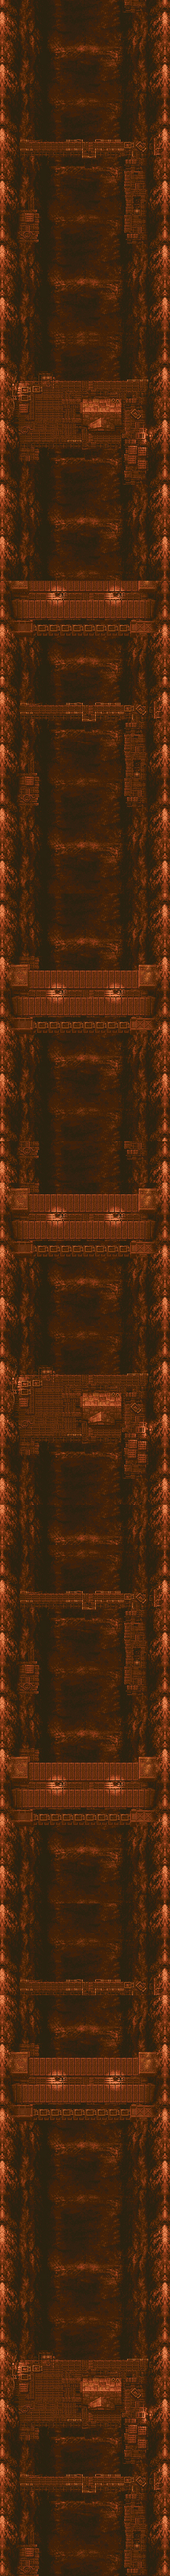
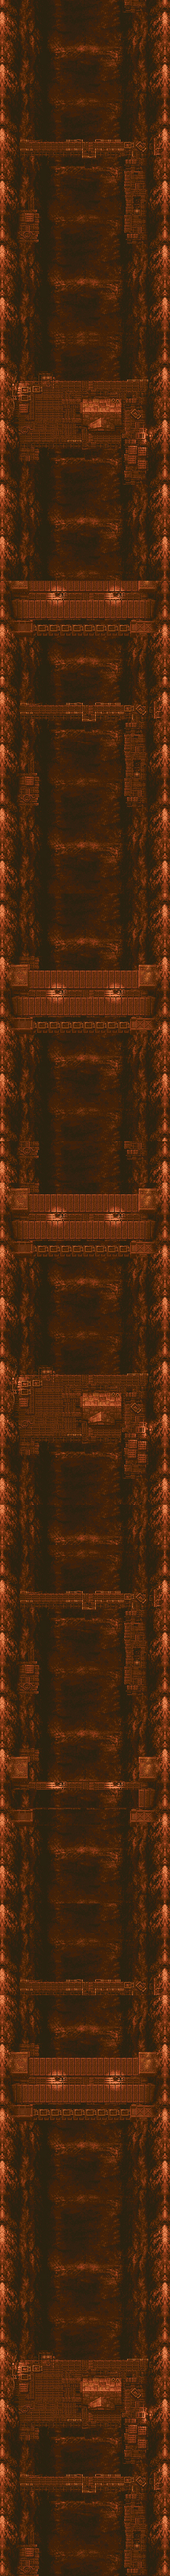
0.4.7.7
Added all background animations

Changed region(s): [[0.0897, 0.6846, 0.8077, 0.7157]]

diff --git a/Gunbird 0.4.7 (PowerUp)/Gunbird/ModuleMine.cpp b/Gunbird 0.4.7 (PowerUp)/Gunbird/ModuleMine.cpp
@@ -31,6 +31,7 @@ bool ModuleMine::Start()
 
 
 	minetexture = App->textures->Load("background_mine.png");
+	mineanimationtexture = App->textures->Load("background_mine_animation.png");
 	startplayer2texture = App->textures->Load("ui.png");
 	minetexture2 = App->textures->Load("background_mine_2.png");
 	mineworkertexture = App->textures->Load("mineworker.png");
@@ -53,6 +54,16 @@ bool ModuleMine::Start()
 	mineworkerwalk.PushBack({ 107, 8, 13, 22 });
 	mineworkerwalk.PushBack({ 83, 8, 11, 23 });
 	mineworkerwalk.speed = 0.08f;
+
+	mineanimation.PushBack({ 13,27,175,85 });
+	mineanimation.PushBack({ 197,27,175,85 });
+	mineanimation.PushBack({ 392,27,175,85 });
+	mineanimation.PushBack({ 585,27,175,85 });
+	mineanimation.PushBack({ 8,131,175,85 });
+	mineanimation.PushBack({ 197,131,175,85 });
+	mineanimation.PushBack({ 392,123,175,85 });
+	mineanimation.PushBack({ 585,131,175,85 });
+	mineanimation.speed = 0.05f;
 
 	mineworkerstand.PushBack({ 2,8,13,22 });
 	mineworkerstand.PushBack({ 21,8,14,23 });
@@ -114,7 +125,9 @@ update_status ModuleMine::Update()
 
 	//Background
 	App->render->Blit(minetexture, 0, -3535 + SCREEN_HEIGHT, &mine, 0.18f);
+	App->render->Blit(mineanimationtexture, 16, -796, &(mineanimation.GetCurrentFrame()), 0.18f);
 	App->render->Blit(minetexture2, 0, -3535 + SCREEN_HEIGHT, &mine, 0.22f);
+	
 
 	//Mineworkers
 	
@@ -122,17 +135,11 @@ update_status ModuleMine::Update()
 	App->render->Blit(mineworkertexture, 16, -439, &(mineworkerstand.GetCurrentFrame()), 0.22f);
 	App->render->Blit(mineworkertexture, 137, -460, &(mineworkerstand.GetCurrentFrame()), 0.22f);
 	
-	if (App->render->camera.y > 36750) {
-		App->render->Blit(mineworkertexture, 137, -460, &(mineworkerwalk.GetCurrentFrame()), 0.22f);
-	}
-
 	//UI
 	App->render->Blit(startplayer2texture, 118, 4, &(startplayer2animation.GetCurrentFrame()), 0);
 	App->render->Blit(startplayer2texture, 5, 6, &(p1.GetCurrentFrame()), 0);
 
-
 	
-
 	App->render->camera.y += SCROLL_SPEED;
 
 

diff --git a/Gunbird 0.4.7 (PowerUp)/Gunbird/ModuleMine.h b/Gunbird 0.4.7 (PowerUp)/Gunbird/ModuleMine.h
@@ -22,6 +22,7 @@ public:
 	bool change = true;
 	SDL_Texture* minetexture = nullptr;
 	SDL_Texture* minetexture2 = nullptr;
+	SDL_Texture* mineanimationtexture = nullptr;
 	SDL_Texture* mineworkertexture = nullptr;
 	SDL_Texture* startplayer2texture= nullptr;
 	SDL_Rect mine;
@@ -29,6 +30,7 @@ public:
 	Animation mineworkerstand;
 	Animation startplayer2animation;
 	Animation p1;
+	Animation mineanimation;
 	float mineworker_x = 190;
 	float mineworker_y = 100;
 	
